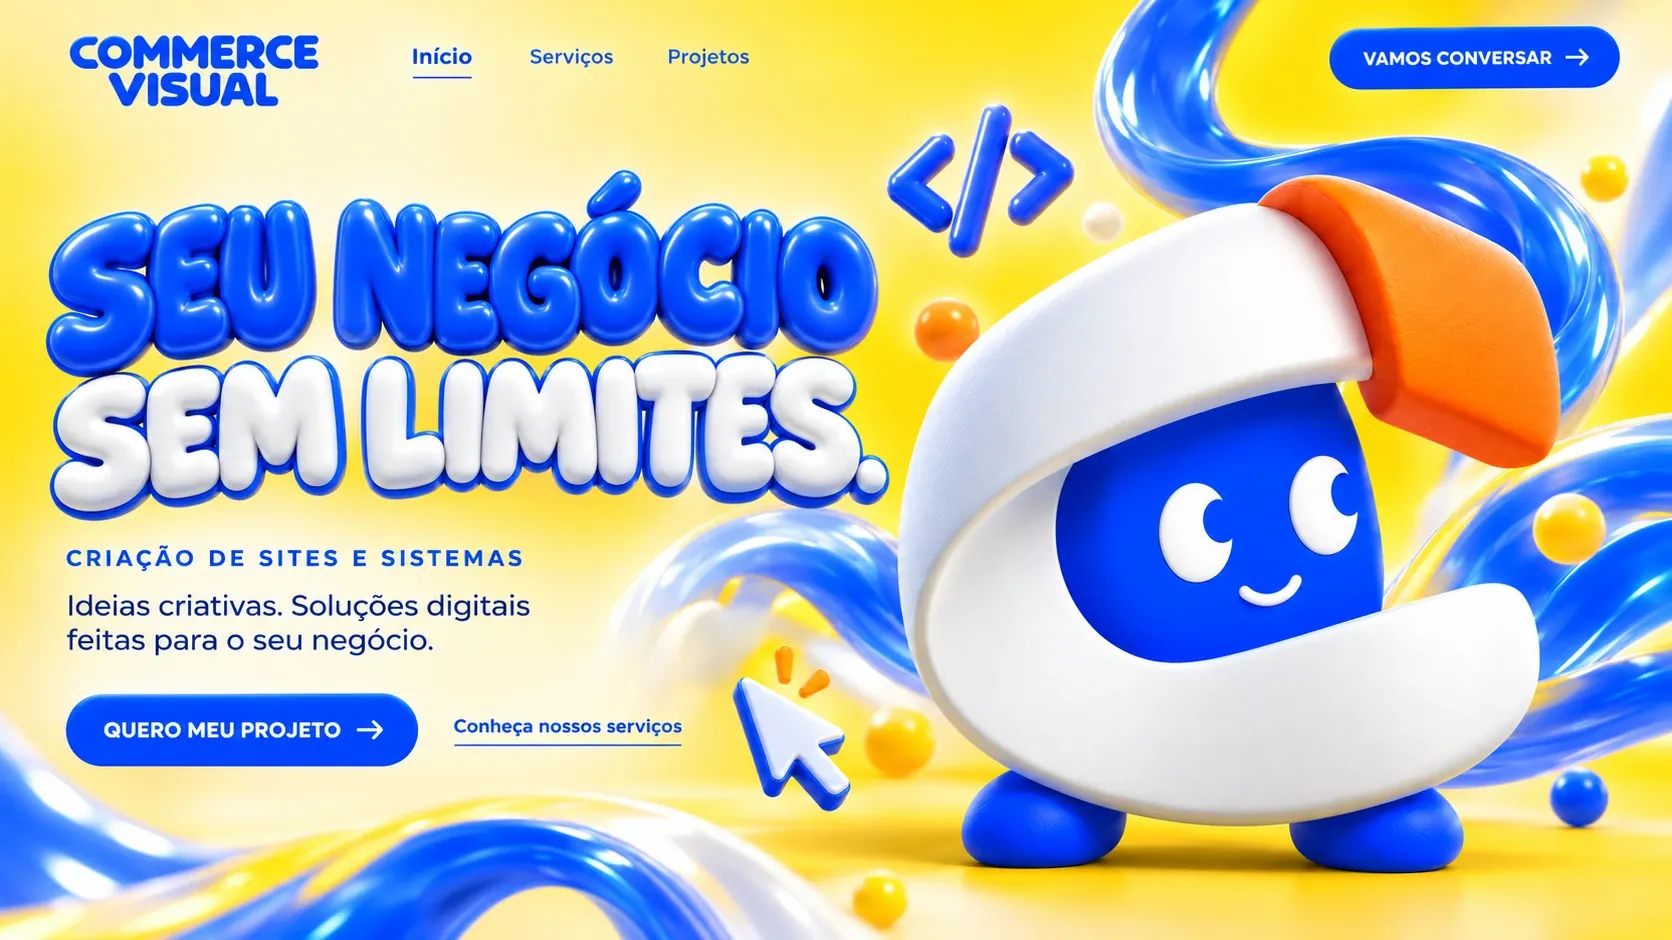
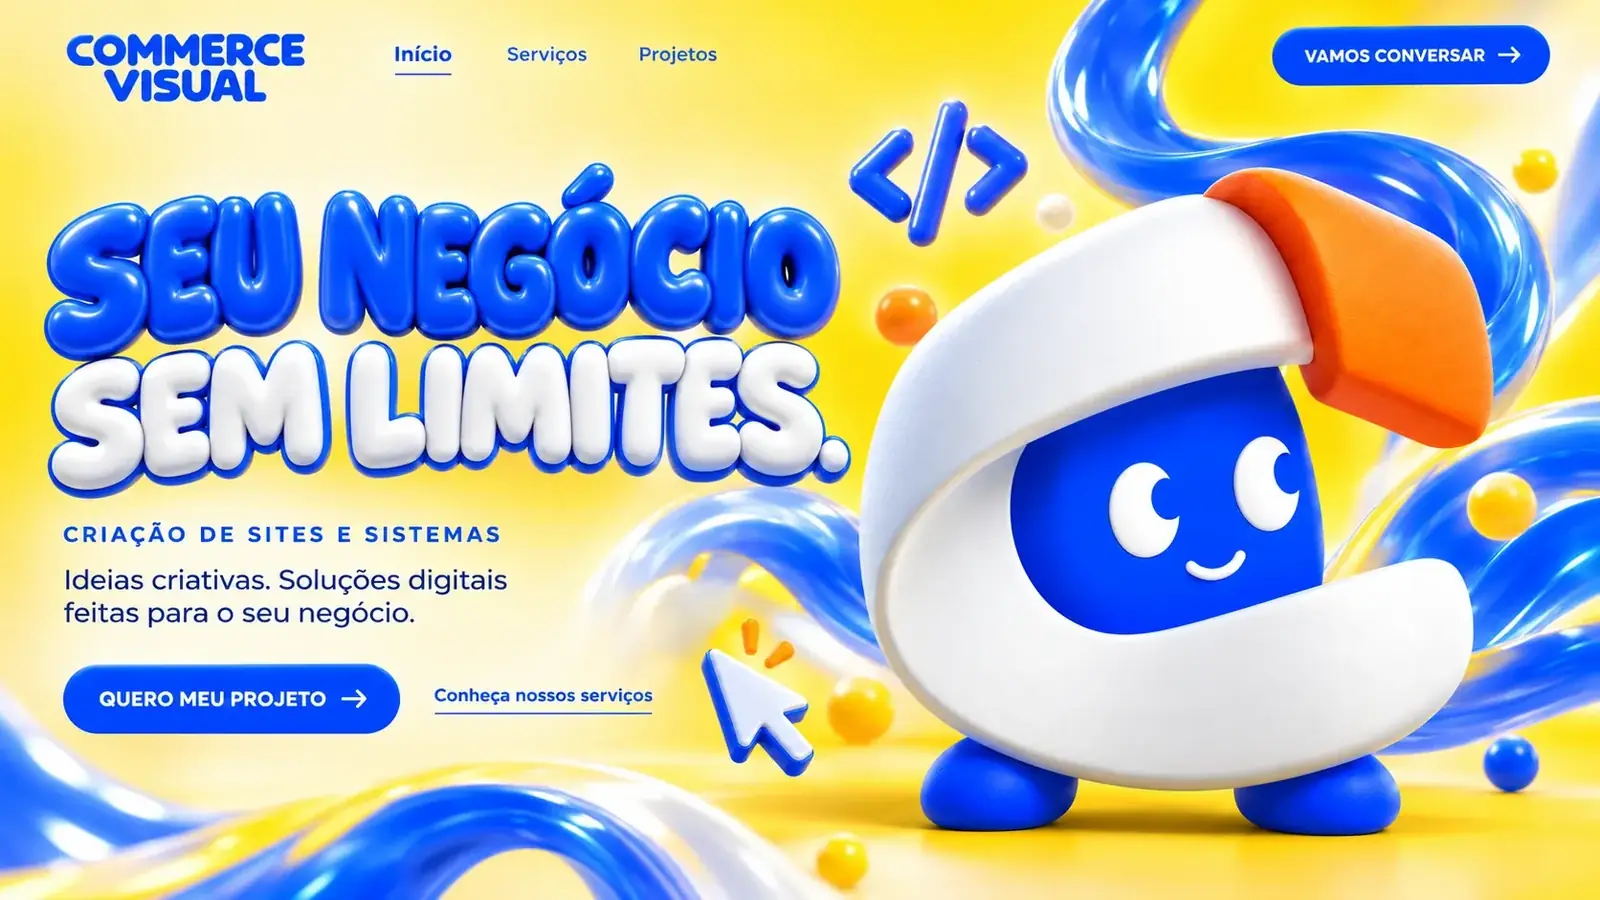
Artes limitadas a 1600 px no computador, imagens mais leves e foro em BH
- Topo, serviços, processo, perguntas e rodapé: máx. 1600 px, laterais com a arte desfocada
- Imagens recomprimidas (~1,1 MB -> ~0,8 MB)
- Termos: foro de Belo Horizonte/MG

Claude-Session: https://claude.ai/code/session_01116qkuPV9n5GHVeypah9k4

Changed region(s): [[0.2812, 0.3733, 0.3125, 0.4044], [0.2188, 0.6222, 0.25, 0.6533]]

diff --git a/src/components/CvHome.tsx b/src/components/CvHome.tsx
@@ -1,5 +1,6 @@
 import React, { useCallback, useEffect, useRef, useState } from 'react';
 import './mobile-menu.css';
+import './cap.css';
 import { SITE_CONFIG } from '../data/siteData';
 
 /*
@@ -123,16 +124,20 @@ export const CvHero: React.FC = () => {
 
       {/* Desktop (acima de 760px) */}
       <div className="hidden min-[761px]:block">
-        <Arte src="/cv/hero-desktop.webp" alt={ALT_HERO} w={1672} h={940} eager>
-          <Hotspots w={1672} h={940} items={[
-            { label: 'Início', href: '#inicio', x1: 405, y1: 38, x2: 478, y2: 80 },
-            { label: 'Serviços', href: '#servicos', x1: 522, y1: 38, x2: 620, y2: 80 },
-            { label: 'Projetos', href: '#servicos', x1: 660, y1: 38, x2: 756, y2: 80 },
-            { label: 'Vamos conversar no WhatsApp', href: WPP, x1: 1330, y1: 27, x2: 1620, y2: 88 },
-            { label: 'Quero meu projeto', href: WPP, x1: 66, y1: 694, x2: 418, y2: 766 },
-            { label: 'Conheça nossos serviços', href: '#servicos', x1: 452, y1: 708, x2: 684, y2: 750 },
-          ]} />
-        </Arte>
+        <div className="cv-cap" style={{ ['--cap-bg' as string]: "url('/cv/hero-desktop.webp')" }}>
+          <div className="cv-cap-in">
+            <Arte src="/cv/hero-desktop.webp" alt={ALT_HERO} w={1672} h={940} eager>
+              <Hotspots w={1672} h={940} items={[
+                { label: 'Início', href: '#inicio', x1: 405, y1: 38, x2: 478, y2: 80 },
+                { label: 'Serviços', href: '#servicos', x1: 522, y1: 38, x2: 620, y2: 80 },
+                { label: 'Projetos', href: '#servicos', x1: 660, y1: 38, x2: 756, y2: 80 },
+                { label: 'Vamos conversar no WhatsApp', href: WPP, x1: 1330, y1: 27, x2: 1620, y2: 88 },
+                { label: 'Quero meu projeto', href: WPP, x1: 66, y1: 694, x2: 418, y2: 766 },
+                { label: 'Conheça nossos serviços', href: '#servicos', x1: 452, y1: 708, x2: 684, y2: 750 },
+              ]} />
+            </Arte>
+          </div>
+        </div>
       </div>
 
       {/* Celular (até 760px) */}
@@ -182,13 +187,17 @@ export const CvSolucoes: React.FC = () => (
     </div>
 
     <div className="hidden min-[761px]:block">
-      <Arte src="/cv/servicos-desktop.webp" alt={ALT_SERV} w={1672} h={941}>
-        <Hotspots w={1672} h={941} items={[
-          { label: 'Vamos criar seu projeto', href: WPP, x1: 122, y1: 559, x2: 498, y2: 615 },
-          { label: 'Conheça as possibilidades de sites', href: WPP, x1: 128, y1: 858, x2: 350, y2: 902 },
-          { label: 'Conheça as possibilidades de sistemas', href: WPP, x1: 869, y1: 858, x2: 1110, y2: 902 },
-        ]} />
-      </Arte>
+      <div className="cv-cap" style={{ ['--cap-bg' as string]: "url('/cv/servicos-desktop.webp')" }}>
+        <div className="cv-cap-in">
+          <Arte src="/cv/servicos-desktop.webp" alt={ALT_SERV} w={1672} h={941}>
+            <Hotspots w={1672} h={941} items={[
+              { label: 'Vamos criar seu projeto', href: WPP, x1: 122, y1: 559, x2: 498, y2: 615 },
+              { label: 'Conheça as possibilidades de sites', href: WPP, x1: 128, y1: 858, x2: 350, y2: 902 },
+              { label: 'Conheça as possibilidades de sistemas', href: WPP, x1: 869, y1: 858, x2: 1110, y2: 902 },
+            ]} />
+          </Arte>
+        </div>
+      </div>
     </div>
 
     <div className="min-[761px]:hidden">

diff --git a/src/components/faq.css b/src/components/faq.css
@@ -1,8 +1,15 @@
 /* Perguntas frequentes — arte no topo/fundo + cards em HTML (desenho igual ao aprovado) */
-.cvf2 { position: relative; container-type: inline-size; background: #fde96a; font-family: 'Montserrat', system-ui, sans-serif; }
+.cvf2 { position: relative; overflow: hidden; background: #fde96a; font-family: 'Montserrat', system-ui, sans-serif; }
 .cvf2-sr { position: absolute; width: 1px; height: 1px; overflow: hidden; clip: rect(0 0 0 0); white-space: nowrap; }
 .cvf2-topo { line-height: 0; }
 .cvf2-topo img { display: block; width: 100%; height: auto; }
+
+/* largura máxima de 1600 px; nas laterais, a arte desfocada */
+.cvf2::before { content: ""; position: absolute; inset: -80px; background: url('/cv/faq2-topo.webp') center top / cover no-repeat, url('/cv/faq2-fundo.webp') center bottom / cover no-repeat; filter: blur(42px) saturate(1.1); }
+.cvf2-in { position: relative; z-index: 1; max-width: 1600px; margin: 0 auto; container-type: inline-size; }
+@media (min-width: 1640px) {
+  .cvf2-in { -webkit-mask-image: linear-gradient(90deg, transparent 0, #000 4%, #000 96%, transparent 100%); mask-image: linear-gradient(90deg, transparent 0, #000 4%, #000 96%, transparent 100%); }
+}
 
 /* fundo: continuação da arte abaixo do título */
 .cvf2-corpo {

diff --git a/public/termos-de-uso/index.html b/public/termos-de-uso/index.html
@@ -475,7 +475,7 @@
     <section id="lei-foro" aria-labelledby="h-19">
       <h2 id="h-19"><span class="pp-n">19</span>Lei aplicável e foro</h2>
       <p>Estes termos são regidos pela <strong>legislação brasileira</strong>, em especial o Código Civil (Lei nº 10.406/2002), o Código de Defesa do Consumidor (Lei nº 8.078/1990), o Marco Civil da Internet (Lei nº 12.965/2014) e a LGPD (Lei nº 13.709/2018).</p>
-      <p>Fica eleito o foro da comarca da sede da Commerce Visual (cidade de registro do MEI) para resolver qualquer questão ligada a estes termos. Se você for <strong>consumidor</strong>, pode escolher o foro do seu domicílio, como garante o art. 101, I, do Código de Defesa do Consumidor.</p>
+      <p>Fica eleito o foro da comarca de <strong>Belo Horizonte/MG</strong>, sede da Commerce Visual, para resolver qualquer questão ligada a estes termos. Se você for <strong>consumidor</strong>, pode escolher o foro do seu domicílio, como garante o art. 101, I, do Código de Defesa do Consumidor.</p>
       <p>Antes de qualquer medida judicial, pedimos que fale com a gente: a maioria das questões se resolve rapidamente por conversa.</p>
     </section>
 

diff --git a/src/components/Footer.tsx b/src/components/Footer.tsx
@@ -1,5 +1,6 @@
 import React from 'react';
 import './footer-mobile.css';
+import './cap.css';
 
 /*
   Rodapé idêntico ao design aprovado (arte única em public/cv/rodape-v3.webp).
@@ -62,8 +63,10 @@ export const Footer: React.FC = () => (
     </div>
     {/* Arte única: as 3 partes do design unidas, sem cortes */}
     {/* largura máxima de 1240px para não ocupar espaço demais em telas grandes */}
-    <nav aria-label="Rodapé" className="cvf-desk">
-      <Parte src="/cv/rodape-v3.webp" w={2576} h={1093} items={LINKS} />
+    <nav aria-label="Rodapé" className="cvf-desk cv-cap" style={{ ['--cap-bg' as string]: "url('/cv/rodape-v3.webp')" }}>
+      <div className="cv-cap-in">
+        <Parte src="/cv/rodape-v3.webp" w={2576} h={1093} items={LINKS} />
+      </div>
     </nav>
 
     {/* Versão celular (até 760px), feita em código */}

diff --git a/src/components/cap.css b/src/components/cap.css
@@ -1,0 +1,18 @@
+/*
+  Limite de largura das artes no computador (máx. 1600 px).
+  Em telas maiores, a arte fica centralizada e as laterais mostram a própria arte desfocada.
+  Uso: div.cv-cap (com a variável --cap-bg apontando para a arte) > div.cv-cap-in > arte
+*/
+.cv-cap { position: relative; overflow: hidden; }
+.cv-cap::before {
+  content: ""; position: absolute; inset: -80px;
+  background: var(--cap-bg) center / cover no-repeat;
+  filter: blur(42px) saturate(1.1);
+}
+.cv-cap-in { position: relative; z-index: 1; max-width: 1600px; margin: 0 auto; }
+@media (min-width: 1640px) {
+  .cv-cap-in > div > img, .cv-cap-in > img {
+    -webkit-mask-image: linear-gradient(90deg, transparent 0, #000 5%, #000 95%, transparent 100%);
+            mask-image: linear-gradient(90deg, transparent 0, #000 5%, #000 95%, transparent 100%);
+  }
+}

diff --git a/src/components/process.css b/src/components/process.css
@@ -7,8 +7,8 @@
   background: url('/cv/processo-desktop-v2.webp') center / cover no-repeat;
   filter: blur(40px) saturate(1.1); opacity: .9;
 }
-.cvp-desk { max-width: 1920px; margin: 0 auto; }
-@media (min-width: 1960px) {
+.cvp-desk { max-width: 1600px; margin: 0 auto; }
+@media (min-width: 1640px) {
   .cvp-desk > img { -webkit-mask-image: linear-gradient(90deg, transparent 0, #000 6%, #000 94%, transparent 100%); mask-image: linear-gradient(90deg, transparent 0, #000 6%, #000 94%, transparent 100%); }
 }
 .cvp-sr { position: absolute; width: 1px; height: 1px; overflow: hidden; clip: rect(0 0 0 0); white-space: nowrap; }

diff --git a/src/components/FAQSection.tsx b/src/components/FAQSection.tsx
@@ -16,6 +16,7 @@ export const FAQSection: React.FC = () => {
 
   return (
     <section id="faq" className={`cvf2${aberta !== null ? ' expandida' : ''}`} aria-labelledby="cvf2-titulo">
+      <div className="cvf2-in">
       <div className="cvf2-topo">
         <img src="/cv/faq2-topo.webp" alt="" width={2576} height={464} loading="lazy" />
         <div className="cvf2-sr">
@@ -56,6 +57,7 @@ export const FAQSection: React.FC = () => {
             </div>
           ))}
         </div>
+      </div>
       </div>
     </section>
   );
